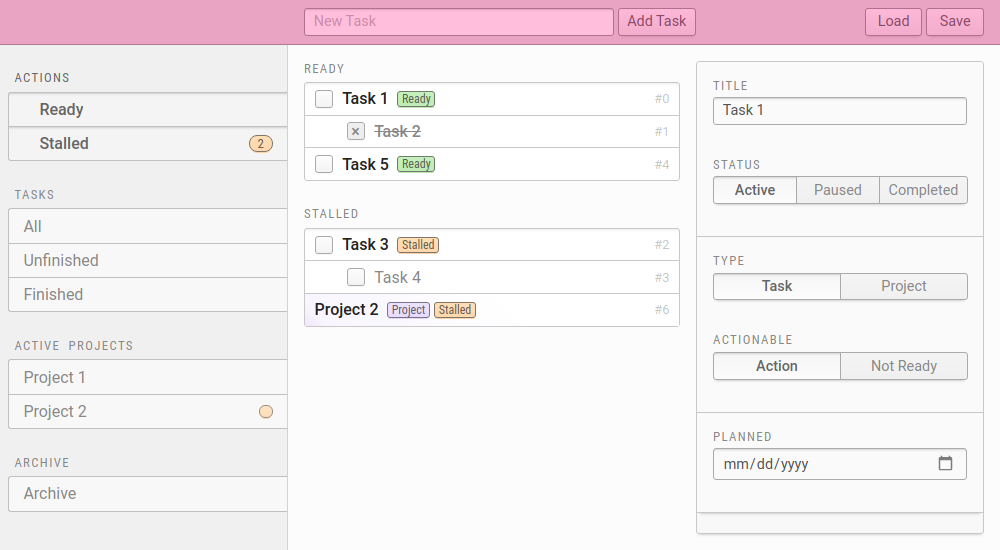
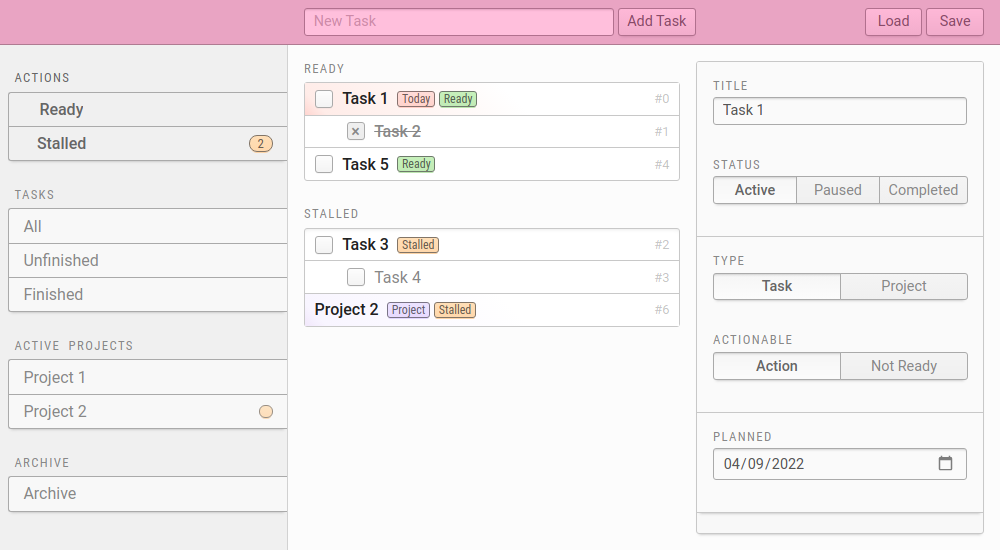
Update screenshot to show 'Today' badge and multiple filters

diff --git a/screenshot.rb b/screenshot.rb
@@ -6,7 +6,11 @@ wait = Selenium::WebDriver::Wait.new(timeout: 20)
 
 driver.get "http://localhost:1234/"
 
-driver.find_element(:xpath, "//*[contains(@class, 'titleColumn')]").click
+date = Time.now.strftime("%m/%d/%Y")
+
+driver.find_element(:xpath, "//*[contains(text(), 'Task 1')]").click
+driver.find_element(:xpath, "//*[contains(text(), 'Planned')]/following::input[@type = 'date']").send_keys(date)
+
 driver.find_element(:xpath, "//*[contains(text(), 'Actions')]").click
 main = driver.find_element(:xpath, "//*[@id = 'root']")
 driver.execute_script("arguments[0].style.maxWidth = '1000px'", main)
